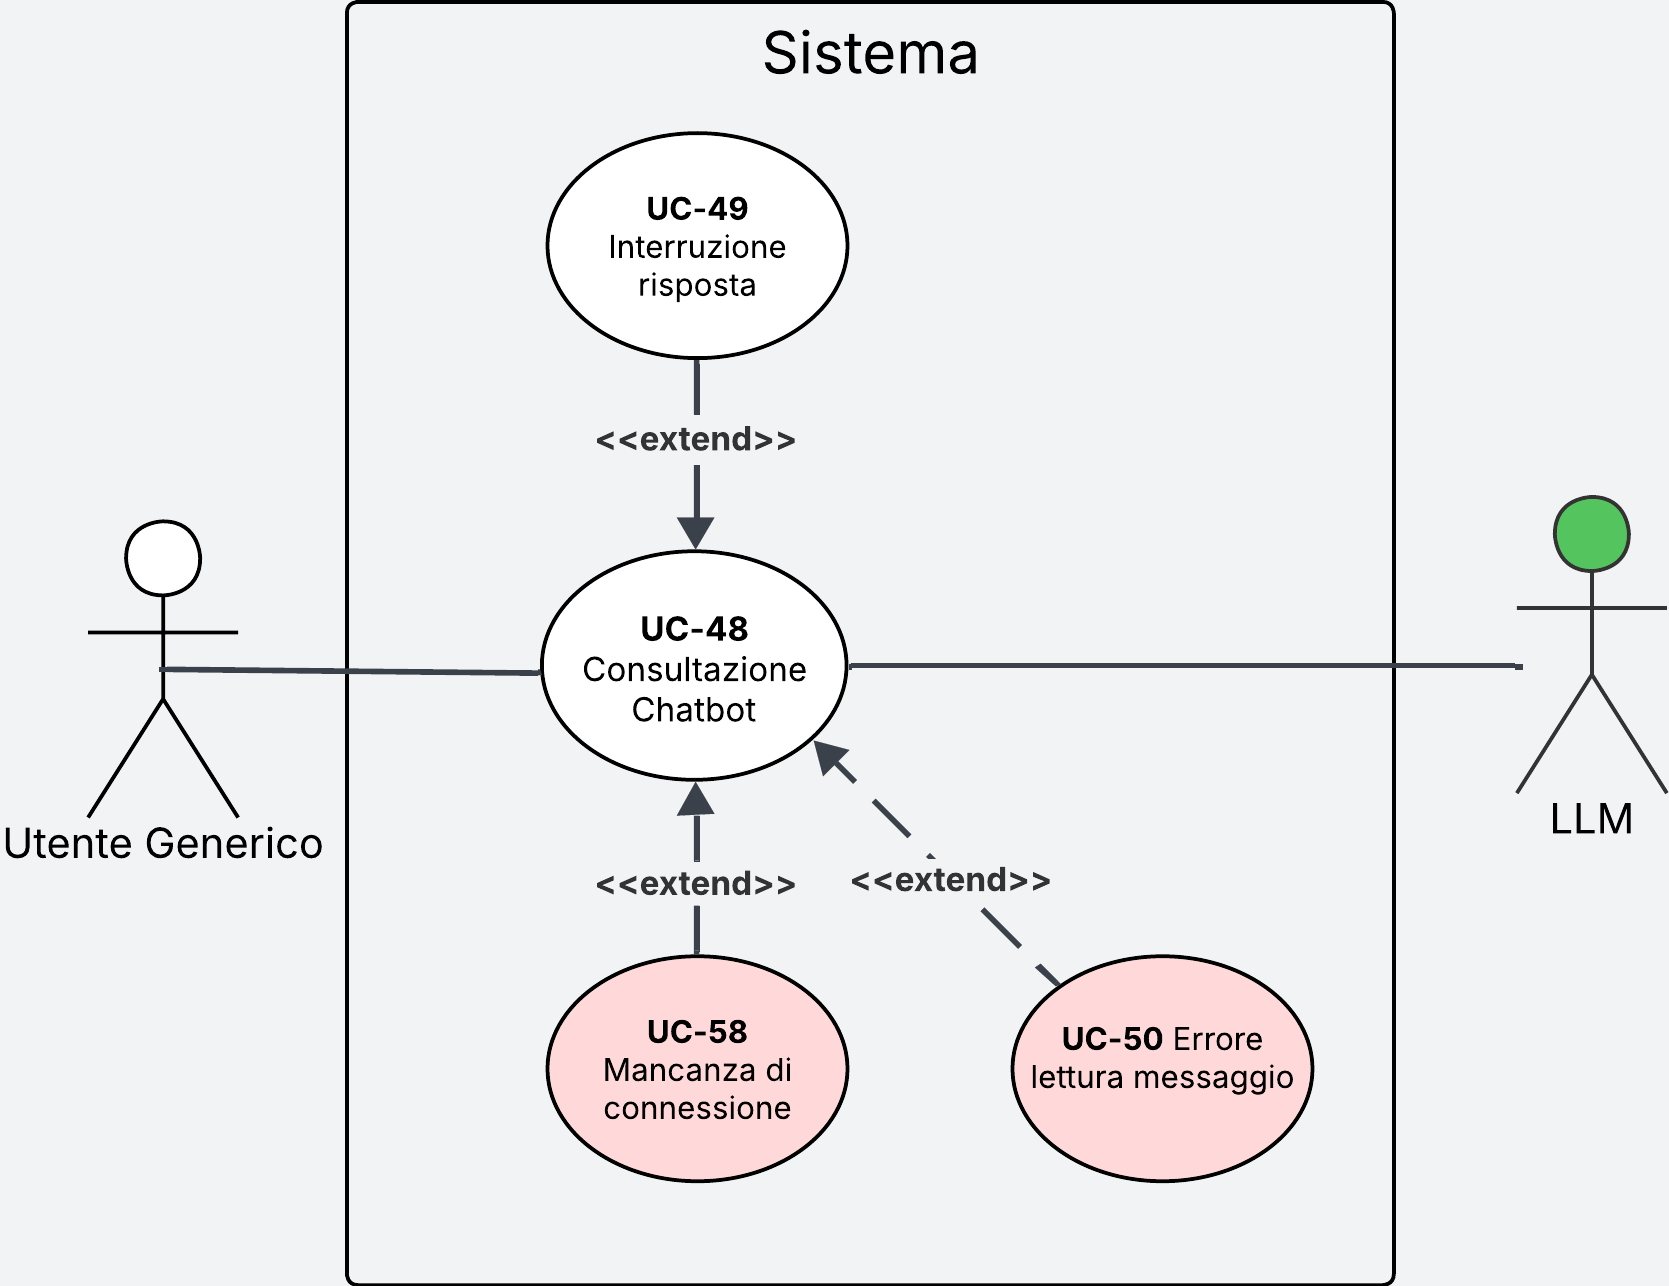
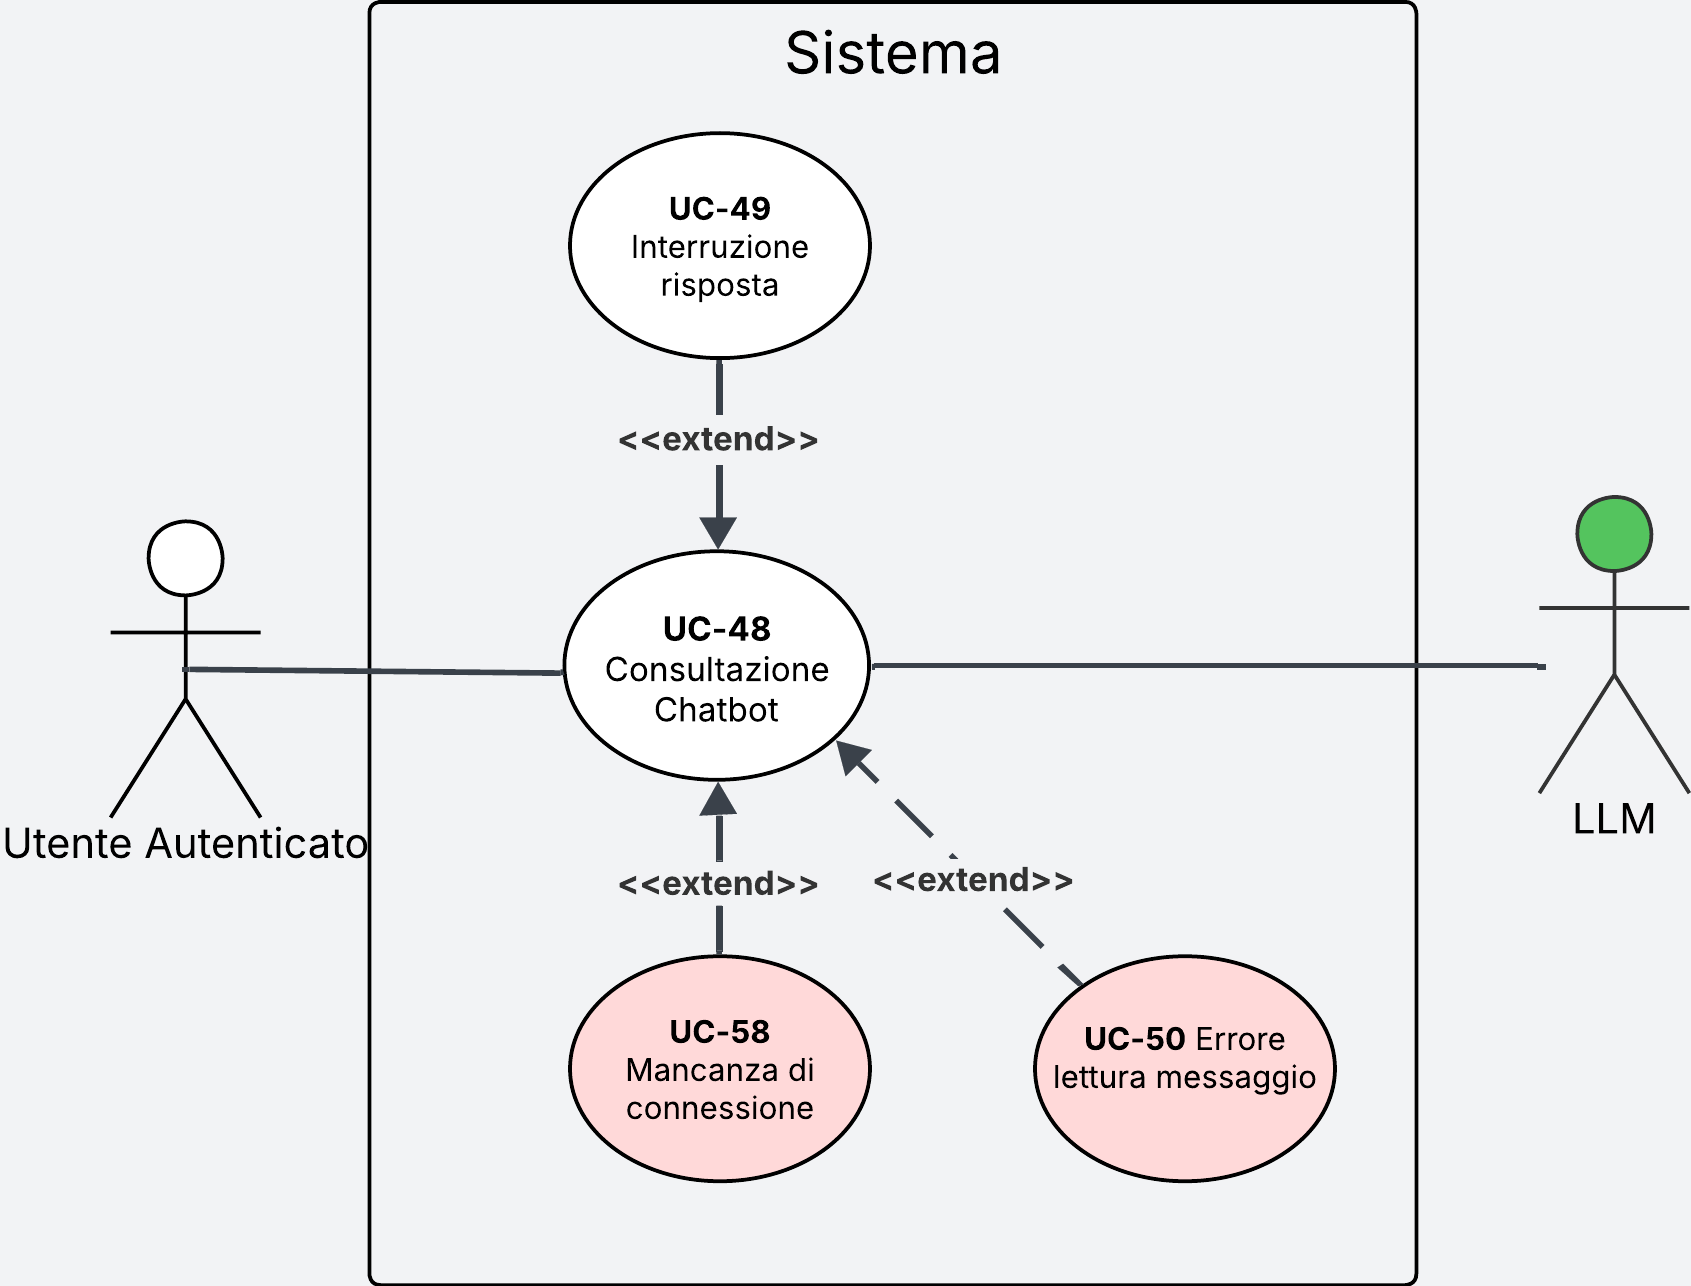
fix e immagini con autenticato

diff --git a/src/RTB/documenti_esterni/analisi_dei_requisiti/analisi_dei_requisiti.tex b/src/RTB/documenti_esterni/analisi_dei_requisiti/analisi_dei_requisiti.tex
@@ -2536,11 +2536,11 @@ Il diagramma riportato di seguito mostra anche ulteriori casi d'uso correlati (\
     \end{itemize}
     \item \textbf{Post-condizioni:}
     \begin{itemize}
-        \item Il singolo messaggio inviato dall'\term{Utente} viene mostrato a schermo
+        \item Il singolo messaggio inviato dall'attore viene mostrato a schermo
     \end{itemize}
     \item \textbf{Scenario principale:} 
     \begin{itemize}
-        \item Il sistema mostra il testo del messaggio inviato dall'\term{Utente} con la formattazione grafica allineata a destra
+        \item Il sistema mostra il testo del messaggio inviato dall'attore con la formattazione grafica allineata a destra
     \end{itemize}
     \item \textbf{Trigger:} L'attore vuole visualizzare la lista dei messaggi nella chat
 \end{itemize}
@@ -2567,8 +2567,8 @@ Il diagramma riportato di seguito mostra anche ulteriori casi d'uso correlati (\
 \subsubsection{UC-54- Creazione nuova chat} \label{subsec:UC-54}
 \begin{figure}[H]
     \centering
-    \includegraphics[width=1\textwidth]{use_case/UC-54-detective.png}
-    \caption{Diagramma dei casi d'uso UC-54}
+    \includegraphics[width=1\textwidth]{use_case/UC-54-55detective.png}
+    \caption{Diagramma dei casi d'uso UC-54 e UC-55}
     \label{fig:UC-54}
 \end{figure}
 \begin{itemize}
